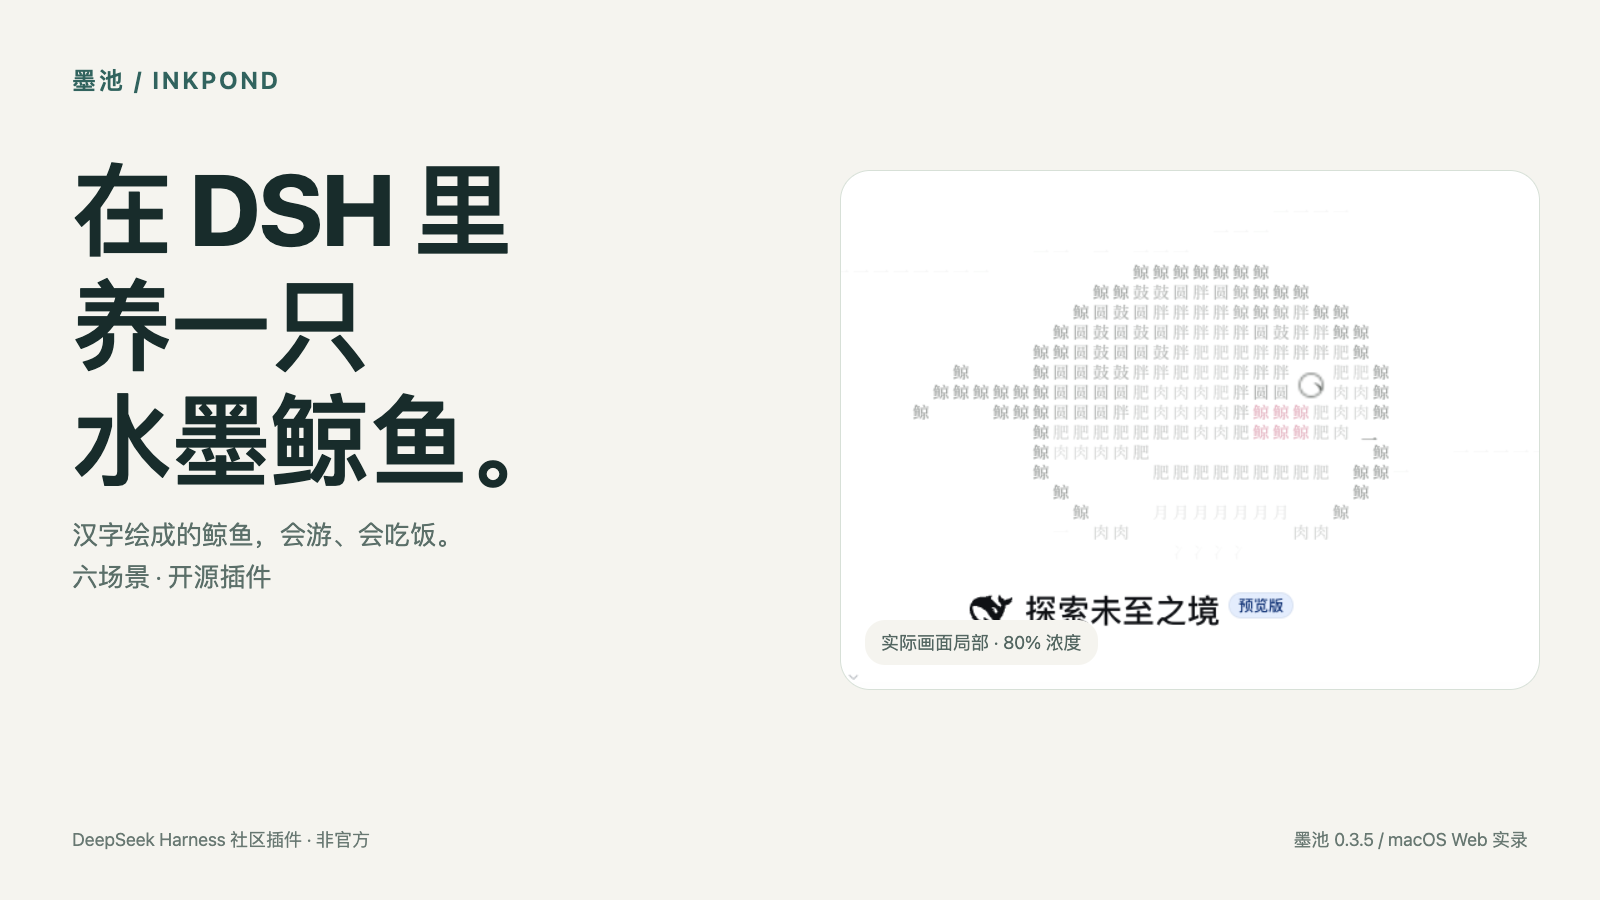
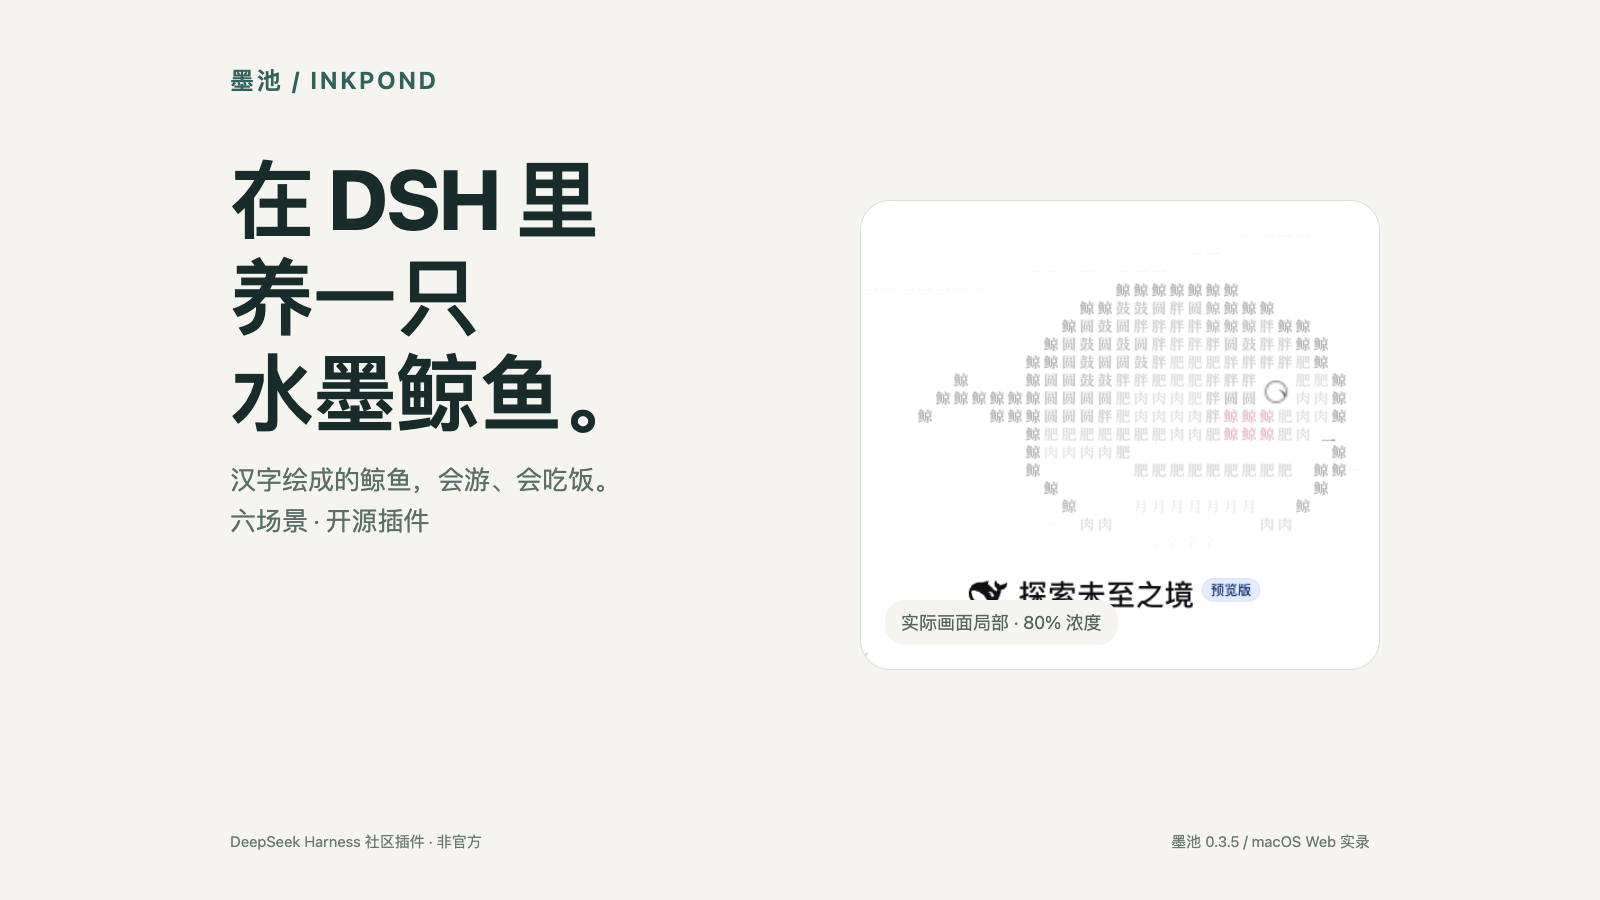
docs: record Bilibili publication and crop-safe cover

diff --git a/docs/promotion/render_cards.py b/docs/promotion/render_cards.py
@@ -25,9 +25,13 @@ p{font-size:23px;line-height:1.6;color:#536661;margin:12px 0}
 code{font-family:ui-monospace,SFMono-Regular,Menlo,monospace;font-size:26px;letter-spacing:-.7px;color:#153e37;background:#edf3ec;border-radius:10px;display:inline-block;padding:13px 15px;white-space:nowrap}
 .note{font-size:20px;line-height:1.55;color:#697972}.footer{position:absolute;bottom:48px;left:72px;right:72px;display:flex;justify-content:space-between;font-size:18px;color:#687872}
 .pill{display:inline-block;background:#e5eee4;border-radius:30px;padding:9px 18px;font-size:21px;color:#28594f}
-.cover h1{font-size:100px;line-height:1.15;margin-top:54px}.cover .copy{position:relative;z-index:1;width:650px}
-.whale{position:absolute;right:60px;top:170px;width:700px;height:520px;background-color:white;background-repeat:no-repeat;background-size:2000px 1125px;background-position:-880px -20px;border:1px solid #d7e0d7;border-radius:30px}
+.cover{padding-left:230px;padding-right:230px}.cover h1{font-size:84px;line-height:1.15;margin-top:54px}.cover .copy{position:relative;z-index:1;width:550px}
+.cover .footer{left:230px;right:230px;font-size:15px}
+.whale{position:absolute;right:220px;top:200px;width:520px;height:470px;background-color:white;background-repeat:no-repeat;background-size:1800px 1012.5px;background-position:-800px -20px;border:1px solid #d7e0d7;border-radius:30px}
 .capture-label{position:absolute;bottom:24px;left:24px;font-size:18px;background:#f5f4ef;padding:10px 16px;border-radius:20px;color:#536661}
+.video-title{padding-left:72px;padding-right:72px}.video-title h1{font-size:100px}.video-title .copy{width:650px}
+.video-title .whale{right:60px;top:170px;width:700px;height:520px;background-size:2000px 1125px;background-position:-880px -20px}
+.video-title .footer{left:72px;right:72px;font-size:18px}
 .end h1{font-size:80px;margin-top:80px}.end code{font-size:48px;padding:24px 32px;margin-top:28px}.end .sub{font-size:32px;margin-top:30px}
 """
 
@@ -59,13 +63,15 @@ write("install-guide-en", """
 """, "en")
 
 whale = "whale-detail.png"
-write("bilibili-cover", f"""
+cover_html = f"""
 <main class="page cover"><div class="brand">墨池 / INKPOND</div><div class="copy">
 <h1>在 DSH 里<br>养一只<br>水墨鲸鱼。</h1>
 <p class="sub">汉字绘成的鲸鱼，会游、会吃饭。<br>六场景 · 开源插件</p></div>
 <div class="whale" style="background-image:url('{whale}')"><span class="capture-label">实际画面局部 · 80% 浓度</span></div>
 <footer class="footer"><span>DeepSeek Harness 社区插件 · 非官方</span><span>墨池 0.3.5 / macOS Web 实录</span></footer></main>
-""")
+"""
+write("bilibili-cover", cover_html)
+write("video-title", cover_html.replace('class="page cover"', 'class="page cover video-title"'))
 
 write("video-end", """
 <main class="page end"><div class="brand">墨池 / INKPOND</div><h1>下一段对话，从一池水墨开始。</h1>
@@ -88,4 +94,4 @@ for index, caption in enumerate([
         f'</style><h1>{caption}</h1><p>墨池 0.3.5 · macOS / DSH 0.2.2-rc.1 Web 实录</p></html>',
         encoding="utf-8")
 
-print("Wrote four HTML cards and three caption strips to output/playwright/promotion")
+print("Wrote five HTML cards and three caption strips to output/playwright/promotion")

diff --git a/docs/promotion/assemble_video.py b/docs/promotion/assemble_video.py
@@ -10,7 +10,7 @@ ROOT = Path(__file__).resolve().parents[2]
 OUT = ROOT / "output/playwright/promotion"
 
 segments = [
-    ("bilibili-cover.png", 3, None),
+    ("video-title.png", 3, None),
     ("whale-detail.webm", 12, "大肥鲸：游动、吃饭与指针互动｜80% 浓度演示，默认 45%"),
     ("lotus.webm", 6, "换个场景：莲池｜默认 45% 浓度"),
     ("settings.png", 5, "六个场景直接选择｜默认仅新会话，可调浓度与动画"),

diff --git a/docs/promotion/README.md b/docs/promotion/README.md
@@ -9,9 +9,11 @@ the published distribution.
 - Official DSH community: https://github.com/deepseek-ai/deepseek-harness/discussions/12419
   Published in Show Your Plugins! on 2026-11-06; source body, author and category
   were read back and verified. Future updates should use this topic.
-- Bilibili: final video, cover and copy are prepared. Upload is pending the
-  user's confirmation of the upload page's agreement notice; no upload or
-  publication is claimed yet.
+- Bilibili: https://www.bilibili.com/video/BV1vT4B6KExv/
+  Submitted on 2026-11-06 after the user confirmed the upload agreement notice.
+  Upload, 1080p transcoding and moderation are complete, as verified in the
+  Creator Center progress page. The category is Artificial Intelligence and
+  the content declaration discloses marketing information.
 - Public assets and README changes: commit `2f45f53488598e36ba041834d2a314257c58f291`.
   [CI passed](https://github.com/shin4/inkpond-dsh/actions/runs/42194520679).
 
@@ -28,7 +30,9 @@ the published distribution.
   Screenshots/cards are interleaved with real-time screen recordings. No
   installation progress, model response or successful message send is simulated.
 - [Bilibili cover](../media/bilibili-cover.png): an actual 80% capture excerpt
-  with deterministic typography; not a generated product mockup.
+  with deterministic typography and margins that preserve the title and whale
+  in Bilibili's 4:3 and 16:9 views. Both crops were checked in the upload editor
+  and synchronized. The video's opening card retains its wider 16:9 layout.
 
 ## Copy
 
@@ -63,7 +67,8 @@ Private capture inputs and review frames are under ignored
 
 To reproduce the cards, run `python3 docs/promotion/render_cards.py` from the
 repository root. Serve the generated directory on loopback and capture each
-HTML card at 1600×900, and the three caption strips at 1920×112. Screenshots
+HTML card at 1600×900 (including the separate `video-title` card), and the three
+caption strips at 1920×112. Screenshots
 require system Chinese fonts; the cover requires its original local capture.
 `python3 docs/promotion/assemble_video.py` then assembles the six segments with
 ffmpeg; it needs the documented local capture inputs. The final file is copied
@@ -74,6 +79,9 @@ Review covered Chinese/English text fit, installation source/package name,
 new-conversation guidance, five timeline frames, 40-second duration, codec/frame
 size, and actual strength labels. Native desktop shells and Windows/Linux are
 not newly claimed as tested.
+Separating the safe-area thumbnail from the video title card was verified by
+re-exporting the full video: its bytes still match the submitted/public MP4,
[1 lines of base64/hex data omitted]
 
 ## Follow-up measurement
 

diff --git a/docs/promotion/bilibili-post.md b/docs/promotion/bilibili-post.md
@@ -24,4 +24,8 @@ npm：https://www.npmjs.com/package/dsh-inkpond
 独立社区插件，与 DeepSeek 官方无隶属关系。代码 MIT；绘制核心来自独立 inkpond，字体采用 SIL OFL。
 视频为真实宿主录屏配说明卡片，无配乐、无配音。欢迎反馈安装是否顺利，以及喜欢哪个场景。
 
-标签：DeepSeek Harness、DSH、开源、插件、水墨、软件分享
+标签：DSH、水墨、开源、DeepSeek、插件、安装教程
+
+分区：人工智能
+
+创作声明：内容含营销信息
